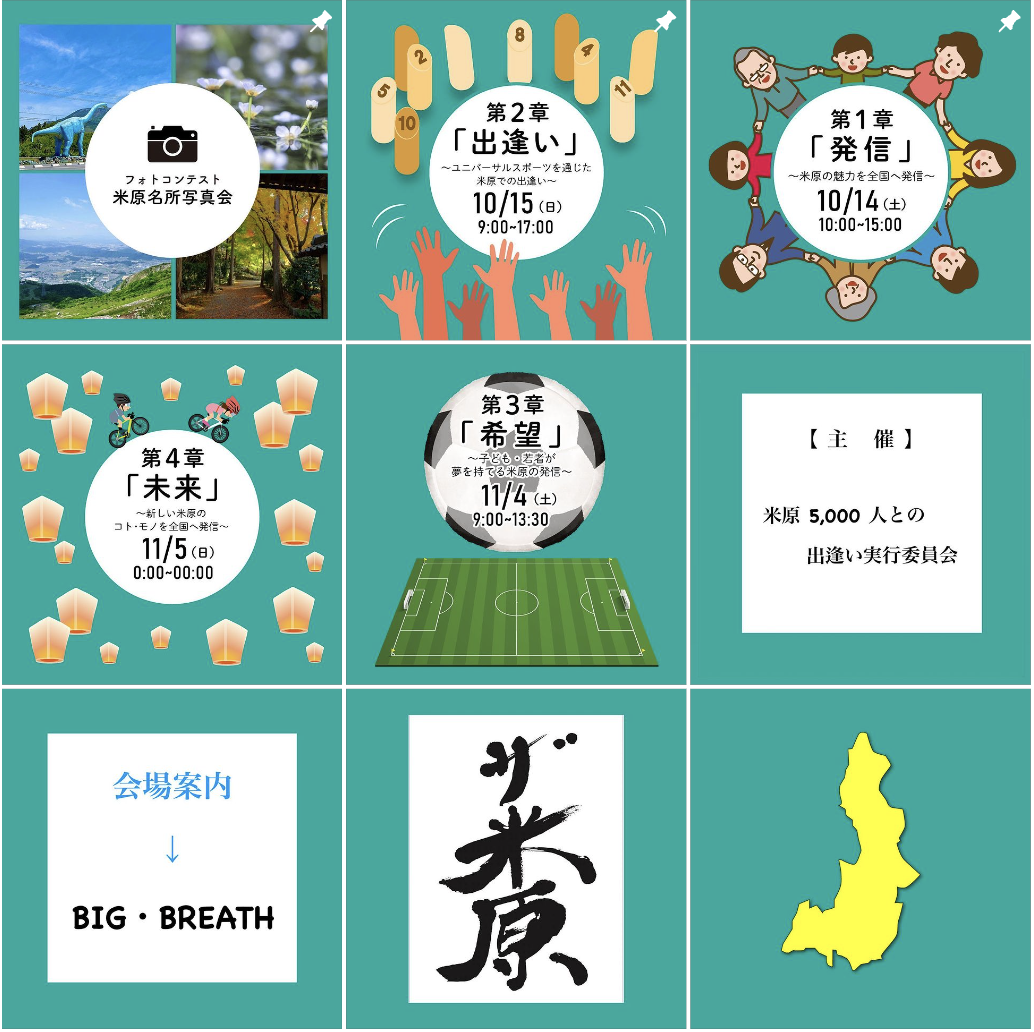
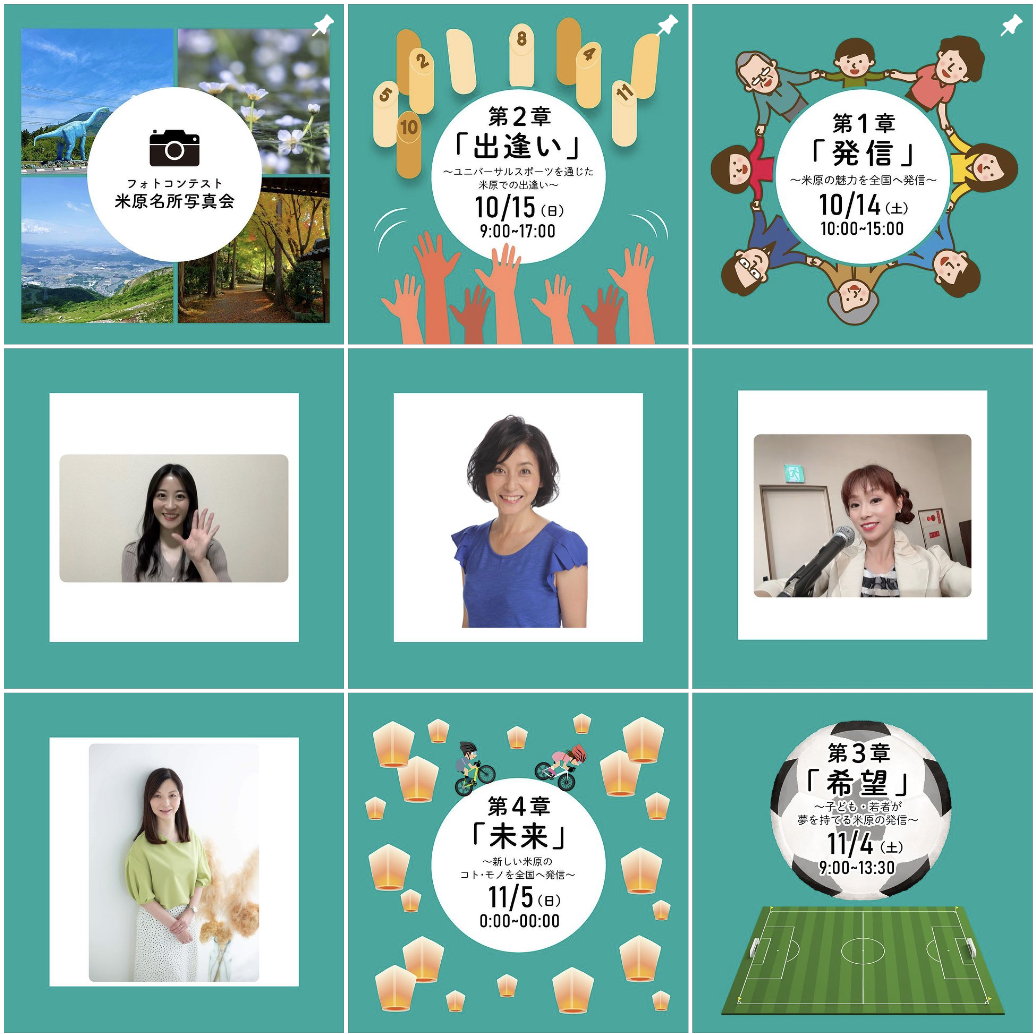
うｐ

diff --git a/index.html b/index.html
@@ -248,12 +248,25 @@
           <!-- Team Item Ends -->
         </div>
       </div>
-      <div class="row justify-content-center mt-5">
+    </div>
+  </section>
+  <!-- Team Section End -->
+
+  <section id="team" class="section-padding">
+    <div class="container">
+      <div class="row justify-content-center">
         <div class="col-md-8 col-lg-8 col-xs-12 text-center">
           <h6 class="subtitle">
-            Photo Contest
+            Contents
           </h6>
           <h2 class="section-title">
+            全日イベント
+          </h2>
+        </div>
+      </div>
+      <div class="row justify-content-center mt-5">
+        <div class="col-md-8 col-lg-8 col-xs-12 text-center">
+          <h2 class="section-title" style="font-size: 1.5rem;">
             フォトコンテスト
           </h2>
           <div class="section-info">
@@ -261,6 +274,36 @@
               <img src="assets/img/instagram.png" style="width: 100%;">
             </a>
           </div>
+        </div>
+      </div>
+      <div class="row">
+        <div class="col-sm-6 col-md-6 col-lg-6">
+          <!-- Team Item Starts -->
+          <div class="team-item text-center" style="background: white;">
+            <div class="team-img">
+              <img class="img-fluid" src="assets/img/p1_4.jpeg" alt=""
+                style="height: 175px;width: 100%;object-fit:cover">
+            </div>
+            <div class="info-text">
+              <h3><a>米原名所写真会</a></h3>
+              <p>米原市内で開催されたフォトコンテスト受賞作品などを展示。</p>
+            </div>
+          </div>
+          <!-- Team Item Ends -->
+        </div>
+        <div class="col-sm-6 col-md-6 col-lg-6">
+          <!-- Team Item Starts -->
+          <div class="team-item text-center" style="background: white;">
+            <div class="team-img">
+              <img class="img-fluid" src="assets/img/p1_8.jpg" alt=""
+                style="height: 175px;width: 100%;object-fit:cover">
+            </div>
+            <div class="info-text">
+              <h3><a>キッチンカー</a></h3>
+              <p>ももやのキッチンカーを出店予定</p>
+            </div>
+          </div>
+          <!-- Team Item Ends -->
         </div>
       </div>
     </div>
@@ -416,9 +459,31 @@
       </div>
       <div class="row">
 
-        <div class="col-sm-6 col-md-6 col-lg-3" style="display: flex;">
+        <div class="col-sm-12 col-md-12 col-lg-4" style="display: flex;">
           <!-- Team Item Starts -->
-          <a href="https://www.facebook.com/yasu.yasu.yasu735" target="_blank"
+          <a href="https://www.facebook.com/michio.hirao" target="_blank" class="team-item text-center w-100 bg-white">
+            <div class="team-img">
+              <img class="img-fluid" src="assets/img/g5.jpg" alt=""
+                style="height: 300px; width: 100%;  object-fit: cover; object-position: top;">
+            </div>
+            <div class="info-text text-dark">
+              <h6>第1章、第2章、第4章</h6>
+              <h6>10月14日、10月14日、11月5日</h6>
+              <p>ゲスト
+              </p>
+              <h3>平尾 道雄さん</h3>
+              <p>米原市長
+                <br>
+                市の発展と市民の福祉向上を目指し、様々なプロジェクトを推進。
+              </p>
+            </div>
+          </a>
+          <!-- Team Item Ends -->
+        </div>
+
+        <div class="col-sm-6 col-md-6 col-lg-4" style="display: flex;">
+          <!-- Team Item Starts -->
+          <a href="https://instagram.com/yasune735?igshid=OGQ5ZDc2ODk2ZA==" target="_blank"
             class="team-item text-center w-100 bg-white">
             <div class="team-img">
               <img class="img-fluid" src="assets/img/g2.png" alt=""
@@ -438,7 +503,7 @@
           <!-- Team Item Ends -->
         </div>
 
-        <div class="col-sm-6 col-md-6 col-lg-3" style="display: flex;">
+        <div class="col-sm-6 col-md-6 col-lg-4" style="display: flex;">
           <!-- Team Item Starts -->
           <a href="https://jonishikei.jp" target="_blank" class="team-item text-center w-100 bg-white">
             <div class="team-img">
@@ -458,7 +523,7 @@
           </a>
           <!-- Team Item Ends -->
         </div>
-        <div class="col-sm-6 col-md-6 col-lg-3" style="display: flex;">
+        <div class="col-sm-6 col-md-6 col-lg-4" style="display: flex;">
           <!-- Team Item Starts -->
           <a href="https://instagram.com/sachiiiii0228?igshid=MzRlODBiNWFlZA==" target="_blank"
             class="team-item text-center w-100 bg-white">
@@ -480,7 +545,7 @@
           <!-- Team Item Ends -->
         </div>
 
-        <div class="col-sm-6 col-md-6 col-lg-3" style="display: flex;">
+        <div class="col-sm-6 col-md-6 col-lg-4" style="display: flex;">
           <!-- Team Item Starts -->
           <a href="https://www.facebook.com/chiho.ono.9" target="_blank" class="team-item text-center w-100 bg-white">
             <div class="team-img">

diff --git a/part_1.html b/part_1.html
@@ -202,16 +202,18 @@
           <!-- Team Item Starts -->
           <div class="team-item text-center" style="background: white;">
             <div class="team-img">
-              <img class="img-fluid" src="assets/img/p1_4.jpeg" alt=""
+              <img class="img-fluid" src="assets/img/p1_9.jpg" alt=""
                 style="height: 175px;width: 100%;object-fit:cover">
             </div>
             <div class="info-text">
-              <h3><a>米原名所写真会</a></h3>
-              <p>米原市内で開催されたフォトコンテスト受賞作品などを展示し、米原観光の魅力を発信する。</p>
+              <h3><a>書道パフォーマンス</a></h3>
+              <p>伊吹高校書道部によるパフォーマンス</p>
             </div>
           </div>
           <!-- Team Item Ends -->
         </div>
+
+
       </div>
     </div>
   </section>

diff --git a/part_2.html b/part_2.html
@@ -124,7 +124,7 @@
   </style>
 
   <!-- Intro Section Start -->
-  <section class="intro" style="background: url(assets/img/slide2.jpg) no-repeat; background-size: cover;">
+  <section class="intro" style="background: url(assets/img/slide7.jpg) no-repeat; background-size: cover;">
     <div class="container">
       <div class="row text-center">
         <div class="col-md-12 col-sm-12 col-xs-12">
@@ -171,7 +171,7 @@
           <div class="team-item text-center" style="background: white;">
             <div class="team-img">
               <a href="https://unispo-project.org/" target="_blank">
-                <img class="img-fluid" src="assets/img/p1_6.jpeg" alt=""
+                <img class="img-fluid" src="assets/img/p1_6.jpg" alt=""
                   style="height: 175px;width: 100%;object-fit:cover">
               </a>
             </div>
